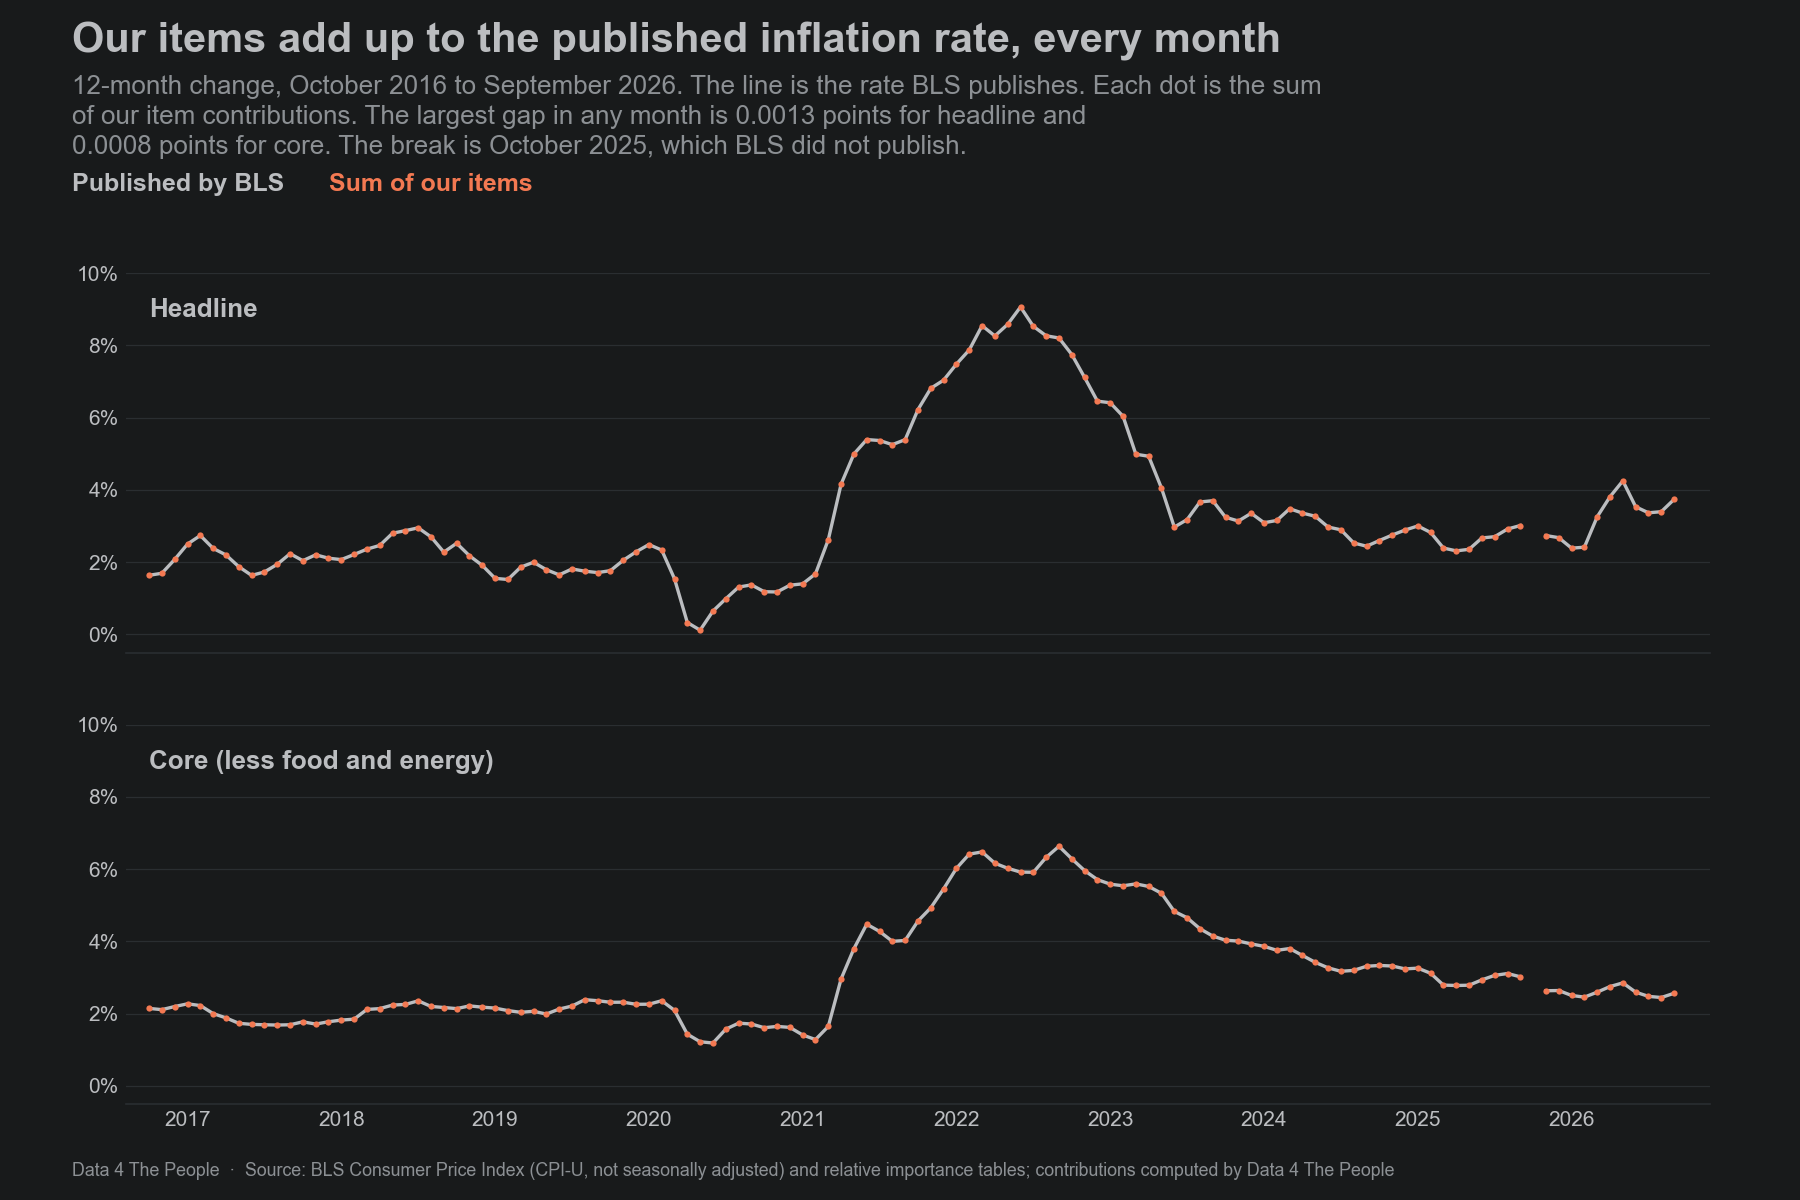
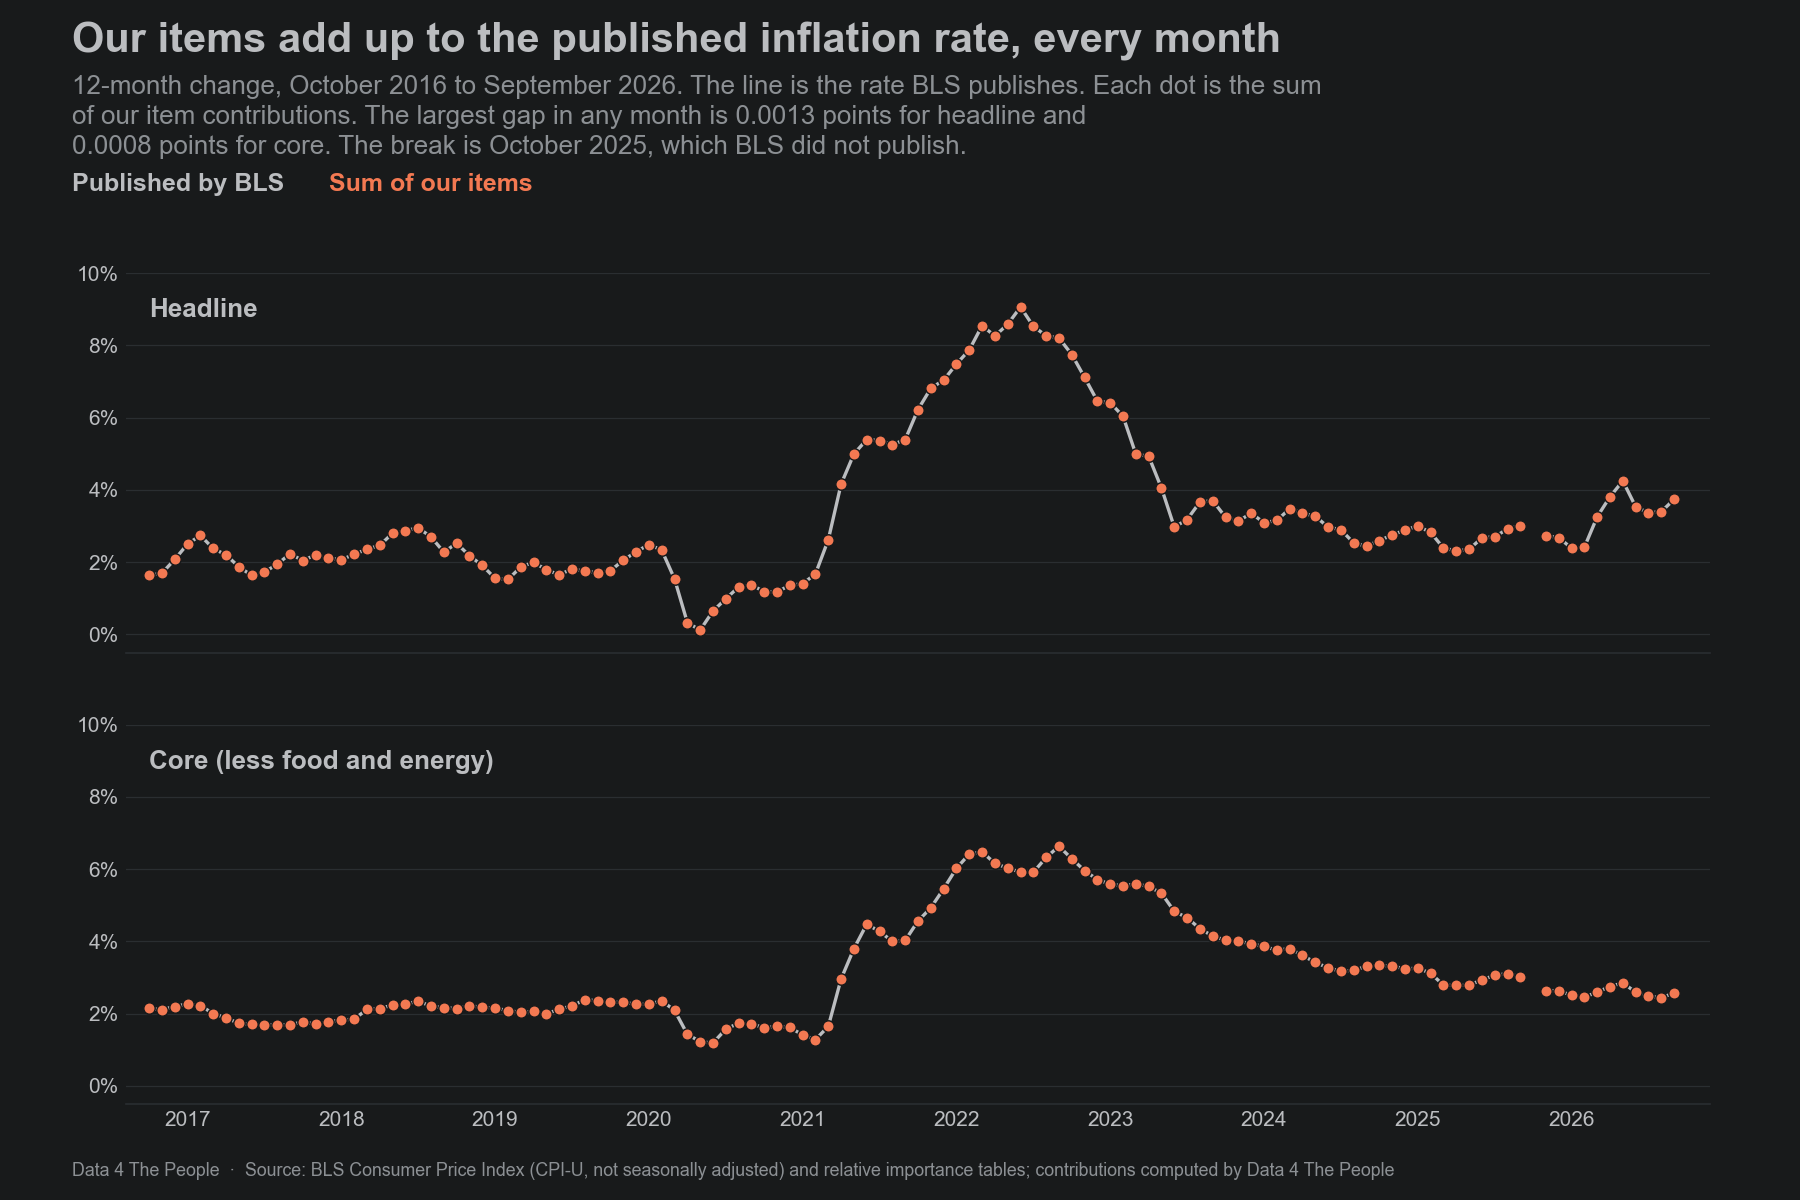
what-is-driving-cpi: larger dots on the tie-out chart; draft updated

diff --git a/scripts/charts.py b/scripts/charts.py
@@ -216,7 +216,7 @@ def tieout(name):
                 xs.append(float("nan")); ys.append(float("nan")); ds.append(float("nan"))
             xs.append(x); ys.append(float(r[pk])); ds.append(float(r[ik]))
         ax.plot(xs, ys, color=INK, lw=1.6, zorder=2)
-        ax.scatter(xs, ds, s=9, color=UP, zorder=3, linewidths=0)
+        ax.scatter(xs, ds, s=30, color=UP, zorder=3, edgecolors=BG, linewidths=0.7)
         ax.set_ylim(-0.5, 10)
         ax.set_yticks([0, 2, 4, 6, 8, 10])
         ax.set_yticklabels([f"{v}%" for v in (0, 2, 4, 6, 8, 10)])
